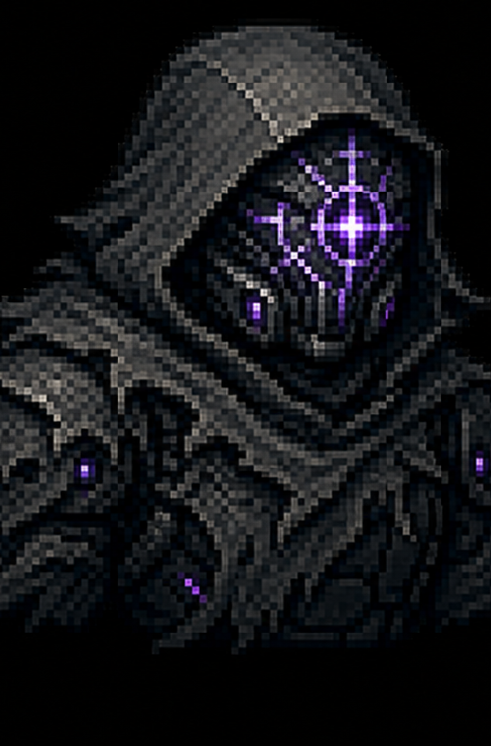
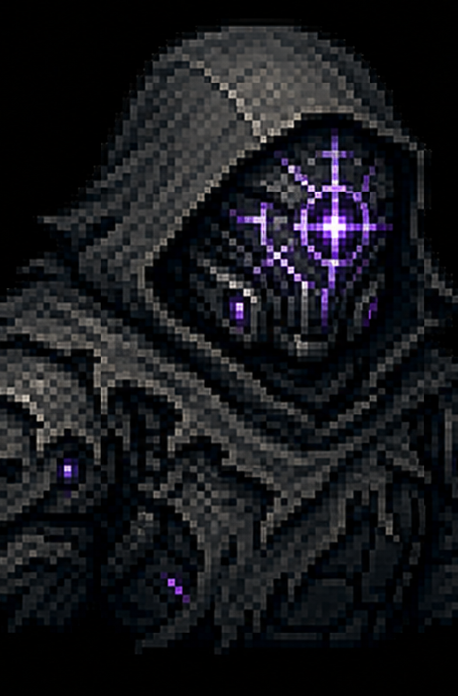
fix(art): portrait zoom v2 — hand-tuned uniformity across all 25 portraits
The first normalization matched raw silhouette widths, but helmet designs differ
(side pods, fins, antennas), so measured width != perceived head size and a few
units still read at different zooms (Strike tighter than Engineer/Splice). Redone
from the pristine originals: automated baseline + ~12 per-file hand-tuned zoom
multipliers, iterated over full-roster contact sheets until every unit reads at
the same helmet size, eye-line, and headroom at card size. Verified in the real
battle card (trio uniform). Full hard-gate suite passes.

diff --git a/docs/TRUTH.md b/docs/TRUTH.md
@@ -231,7 +231,7 @@ two-player crossfade pair, tracks in `assets/audio/music/sci_fi_loop_N.ogg`
 
 ## Assets — portraits (2026-07-07 wiring pass)
 
-**Hero portraits:** base art `assets/portraits/<hero_id>.png` (`DataManager.HERO_PORTRAIT_BY_ID`). **Evolved art convention: `assets/portraits/<hero_id>_<evo_id>.png`**, where `evo_id` is the evolution entry's `id` field in `heroes.data.json` — the lowercased callsign, schema-enforced (pyro, arc, blade, ravager, bulwark, sentinel, glacier, trench, medic, synth, overclocked, phantom, shadow, wraith, noise, nullwire). `DataManager.get_evolution_portrait()` resolves it; a missing file silently falls back to the base portrait (never errors, never blanks). The swap rides `GameState.get_run_unit_data()`, so every run-unit surface (battle cards, equip labels, sim) inherits it; the evolution screen previews each branch's own portrait. All 24 files (8 base overwrites + 16 evolutions) installed 2026-07-07. Both art styles pass through the crop-to-content contract (`_crop_to_content`, cutout vs full-bleed tag). **Zoom-normalized 2026-07-12 (Batch 6):** the source art was authored at inconsistent subject zooms (some busts ~20% larger than others), so every hero portrait PNG (25 files incl. variants) was re-cropped to a common head size + position — a full-bleed bust at one consistent zoom/POV across the whole roster, so any squad reads uniformly on the battle card. Cropping only (native-res, no upscale) keeps them crisp; a couple of glow/dark-helmet variants (`medic_synth`, `pulse_pyro`, `engineer_phantom`) needed a manual head-width override where auto-detection misfired.
+**Hero portraits:** base art `assets/portraits/<hero_id>.png` (`DataManager.HERO_PORTRAIT_BY_ID`). **Evolved art convention: `assets/portraits/<hero_id>_<evo_id>.png`**, where `evo_id` is the evolution entry's `id` field in `heroes.data.json` — the lowercased callsign, schema-enforced (pyro, arc, blade, ravager, bulwark, sentinel, glacier, trench, medic, synth, overclocked, phantom, shadow, wraith, noise, nullwire). `DataManager.get_evolution_portrait()` resolves it; a missing file silently falls back to the base portrait (never errors, never blanks). The swap rides `GameState.get_run_unit_data()`, so every run-unit surface (battle cards, equip labels, sim) inherits it; the evolution screen previews each branch's own portrait. All 24 files (8 base overwrites + 16 evolutions) installed 2026-07-07. Both art styles pass through the crop-to-content contract (`_crop_to_content`, cutout vs full-bleed tag). **Zoom-normalized 2026-07-12 (Batch 6, two passes):** the source art was authored at inconsistent subject zooms (some busts ~20% larger than others), so every hero portrait PNG (25 files incl. variants) was re-cropped to a common helmet size + top position — a full-bleed bust at one consistent zoom/POV across the whole roster. Cropping only (native-res, no upscale). Automated silhouette metrics alone were NOT sufficient (helmet designs differ — side pods/antennas make measured width ≠ perceived size): the final pass is an auto baseline plus ~12 per-file hand-tuned zoom multipliers, converged over contact-sheet review rounds. If a portrait is ever re-authored, re-check it against the roster at card size rather than trusting a width metric.
 
 **Enemy portraits:** `assets/portraits/enemies/` via `ENEMY_PORTRAIT_BY_NAME` (bare filenames only — no `res://` long forms), fallback `_slugify(display_name).png`. As of 2026-07-07 all 38 unit defs have explicit map entries and every one resolves. Legacy-era files renamed to current unit names (git history preserves the lineage): rift_macaque→pumice_macaque, eclipse_panther→geode_panther, ridge_drake→magma_drake, eclipse_raptor→pyroclast_raptor, thunder_ape→basalt_ape, void_reaver→mantle_tyrant, sparksprite→glitch_sprite, levyn_acolyte→init_acolyte, chronicle_scribe→checksum_scribe, geas_binder→axiom_binder, glimmer_double→forked_double, arc_titan_channeler→daemon_channeler, circlet_hierophant→root_hierophant, whitenoise_skimmer→static_skimmer, void_hound→obsidian_hound.
 
